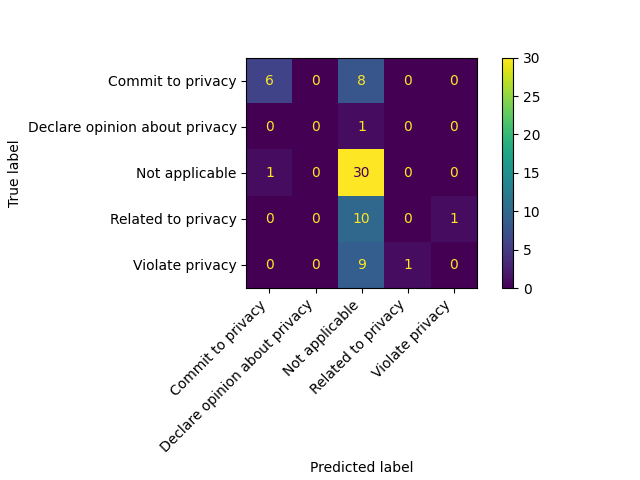
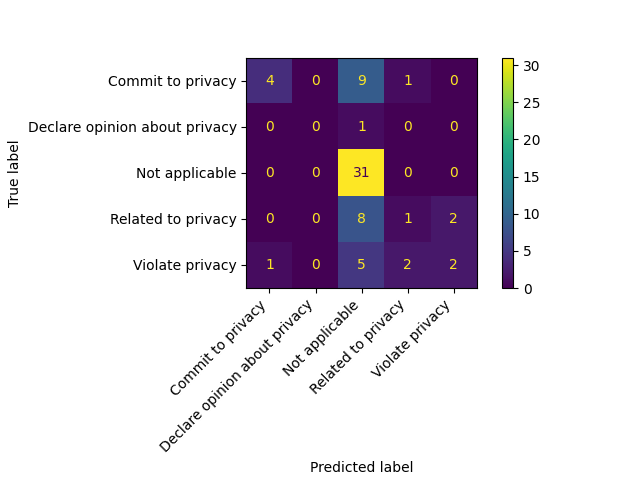
reran mixed features with list of features lr 0.5 n est 100

diff --git a/AIclassifier.py b/AIclassifier.py
@@ -123,8 +123,8 @@ def create_vectors_list(sents, conversion_dict):
         mixed_vector.append(sent_mixed_vector)
 
     #return vectors_list # unigrams
-    return bigrams_vector
-    #return mixed_vector
+    #return bigrams_vector
+    return mixed_vector
 
 # def create_word_embedding(partition):
 
@@ -184,7 +184,8 @@ words_to_numbers = create_dict(corpus_without_unk)
 bigrams_to_numbers = create_dict(bigrams_filtered_lexicon)
 
 # Mixed dictionary
-with open('features.txt', 'r') as file:
+with open('featureslr0.5nEst100.txt', 'r') as file:
+#with open('features.txt', 'r') as file:
     features_list = file.read()
 features_list = features_list.split('\n')
 mixed_to_numbers = create_dict(features_list)
@@ -198,8 +199,8 @@ print(mixed_to_numbers)
 #dev_word_embedding_features = create_word_embedding(sents_dev)
 #test_word_embedding_features = numpy.asarray(create_word_embedding(sents_test))
 #print("Length of the dictionary of word representations:",len(words_to_numbers))
-print("Length of the dictionary of word representations:",len(bigrams_to_numbers))
-#print("Length of the dictionary of word representations:",len(mixed_to_numbers))
+#print("Length of the dictionary of word representations:",len(bigrams_to_numbers))
+print("Length of the dictionary of word representations:",len(mixed_to_numbers))
 
 # FLAG - CHECK IF DICTIONARY IS BUILT CORRECTLY
 #               SHOULD PUNCTUATION BE UNKNOWN? BECAUSE RIGHT NOW IT IS -NOPE, FIXED
@@ -211,13 +212,13 @@ print("Length of the dictionary of word representations:",len(bigrams_to_numbers
 # dev_vectors_list = create_vectors_list(sents_dev, words_to_numbers)
 # test_vectors_list = create_vectors_list(sents_test, words_to_numbers)
 
-train_vectors_list = create_vectors_list(sents_train, bigrams_to_numbers)
-dev_vectors_list = create_vectors_list(sents_dev, bigrams_to_numbers)
-test_vectors_list = create_vectors_list(sents_test, bigrams_to_numbers)
+# train_vectors_list = create_vectors_list(sents_train, bigrams_to_numbers)
+# dev_vectors_list = create_vectors_list(sents_dev, bigrams_to_numbers)
+# test_vectors_list = create_vectors_list(sents_test, bigrams_to_numbers)
 
-# train_vectors_list = create_vectors_list(sents_train, mixed_to_numbers)
-# dev_vectors_list = create_vectors_list(sents_dev, mixed_to_numbers)
-# test_vectors_list = create_vectors_list(sents_test, mixed_to_numbers)
+train_vectors_list = create_vectors_list(sents_train, mixed_to_numbers)
+dev_vectors_list = create_vectors_list(sents_dev, mixed_to_numbers)
+test_vectors_list = create_vectors_list(sents_test, mixed_to_numbers)
 
 # COUNT STATISTICS - HOW MANY WORDS WERE CONSIDERED UNK, AND HOW MANY OF EACH WORD
 
@@ -227,13 +228,13 @@ test_vectors_list = create_vectors_list(sents_test, bigrams_to_numbers)
 # dev_matrix_array = format_sentVector_to_SparseMatrix(dev_vectors_list, words_to_numbers)
 # test_matrix_array = format_sentVector_to_SparseMatrix(test_vectors_list, words_to_numbers)
 
-train_matrix_array = format_sentVector_to_SparseMatrix(train_vectors_list, bigrams_to_numbers)
-dev_matrix_array = format_sentVector_to_SparseMatrix(dev_vectors_list, bigrams_to_numbers)
-test_matrix_array = format_sentVector_to_SparseMatrix(test_vectors_list, bigrams_to_numbers)
+# train_matrix_array = format_sentVector_to_SparseMatrix(train_vectors_list, bigrams_to_numbers)
+# dev_matrix_array = format_sentVector_to_SparseMatrix(dev_vectors_list, bigrams_to_numbers)
+# test_matrix_array = format_sentVector_to_SparseMatrix(test_vectors_list, bigrams_to_numbers)
 
-# train_matrix_array = format_sentVector_to_SparseMatrix(train_vectors_list, mixed_to_numbers)
-# dev_matrix_array = format_sentVector_to_SparseMatrix(dev_vectors_list, mixed_to_numbers)
-# test_matrix_array = format_sentVector_to_SparseMatrix(test_vectors_list, mixed_to_numbers)
+train_matrix_array = format_sentVector_to_SparseMatrix(train_vectors_list, mixed_to_numbers)
+dev_matrix_array = format_sentVector_to_SparseMatrix(dev_vectors_list, mixed_to_numbers)
+test_matrix_array = format_sentVector_to_SparseMatrix(test_vectors_list, mixed_to_numbers)
 
 # FLAG - CHECK IF SPARSE MATRIX REPRESENTATION WAS DONE CORRECTLY
 
@@ -286,8 +287,8 @@ importances = model.feature_importances_
 
 features = {}
 #for i,(token,value) in enumerate(zip(words_to_numbers, importances)):
-#for i,(token,value) in enumerate(zip(mixed_to_numbers, importances)):
-for i,(token,value) in enumerate(zip(bigrams_to_numbers, importances)): # IMPORTANTO TO CHANGE TO ADEQUATE DICT
+for i,(token,value) in enumerate(zip(mixed_to_numbers, importances)):
+#for i,(token,value) in enumerate(zip(bigrams_to_numbers, importances)): # IMPORTANTO TO CHANGE TO ADEQUATE DICT
    if (value != 0):
        features[token] = value
 features = sorted([(value, key) for (key, value) in features.items()], reverse=True)
@@ -326,7 +327,7 @@ path='output/AI Classifier/1labelPredictionsStatsTest.txt'
 os.makedirs(os.path.dirname(path), exist_ok=True)
 with open(path, 'w') as file:
     #print("Performance measures - Unigram Dictionary - MLP Word Embeddings\n", file=file)
-    print("Performance measures - Bigram Dictionary - Adaboost\n", file=file)
+    print("Performance measures - Mixed Dictionary - Adaboost\n", file=file)
 #write_output_stats_file(path, "Dev", dev_labels_primary, predictions, labels)
 write_output_stats_file(path, "Test", test_labels_primary, predictions, labels)
 
